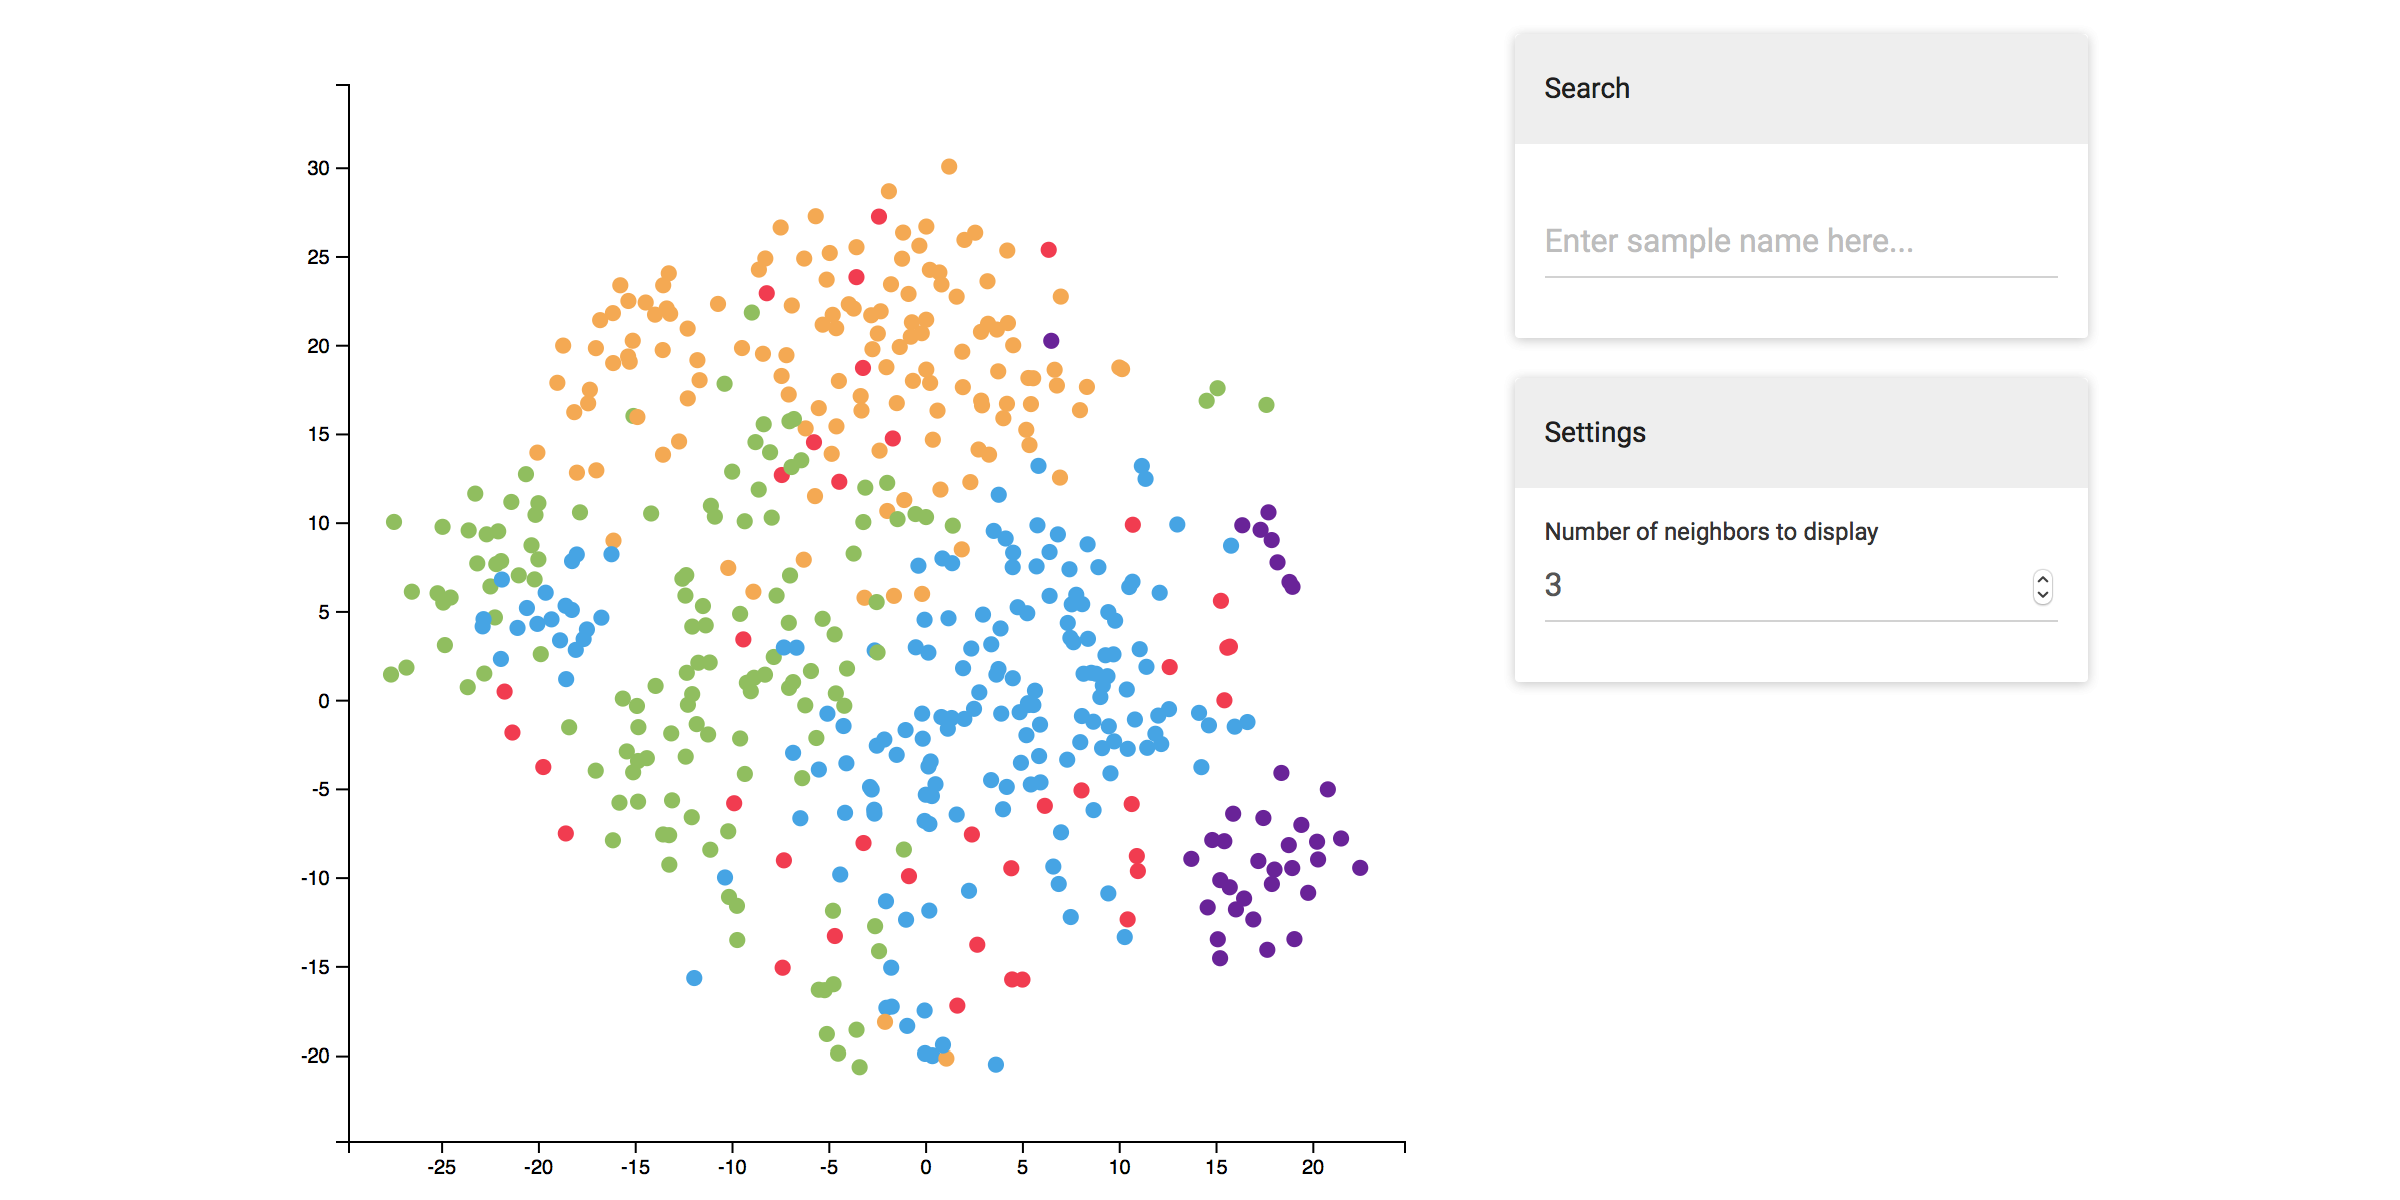
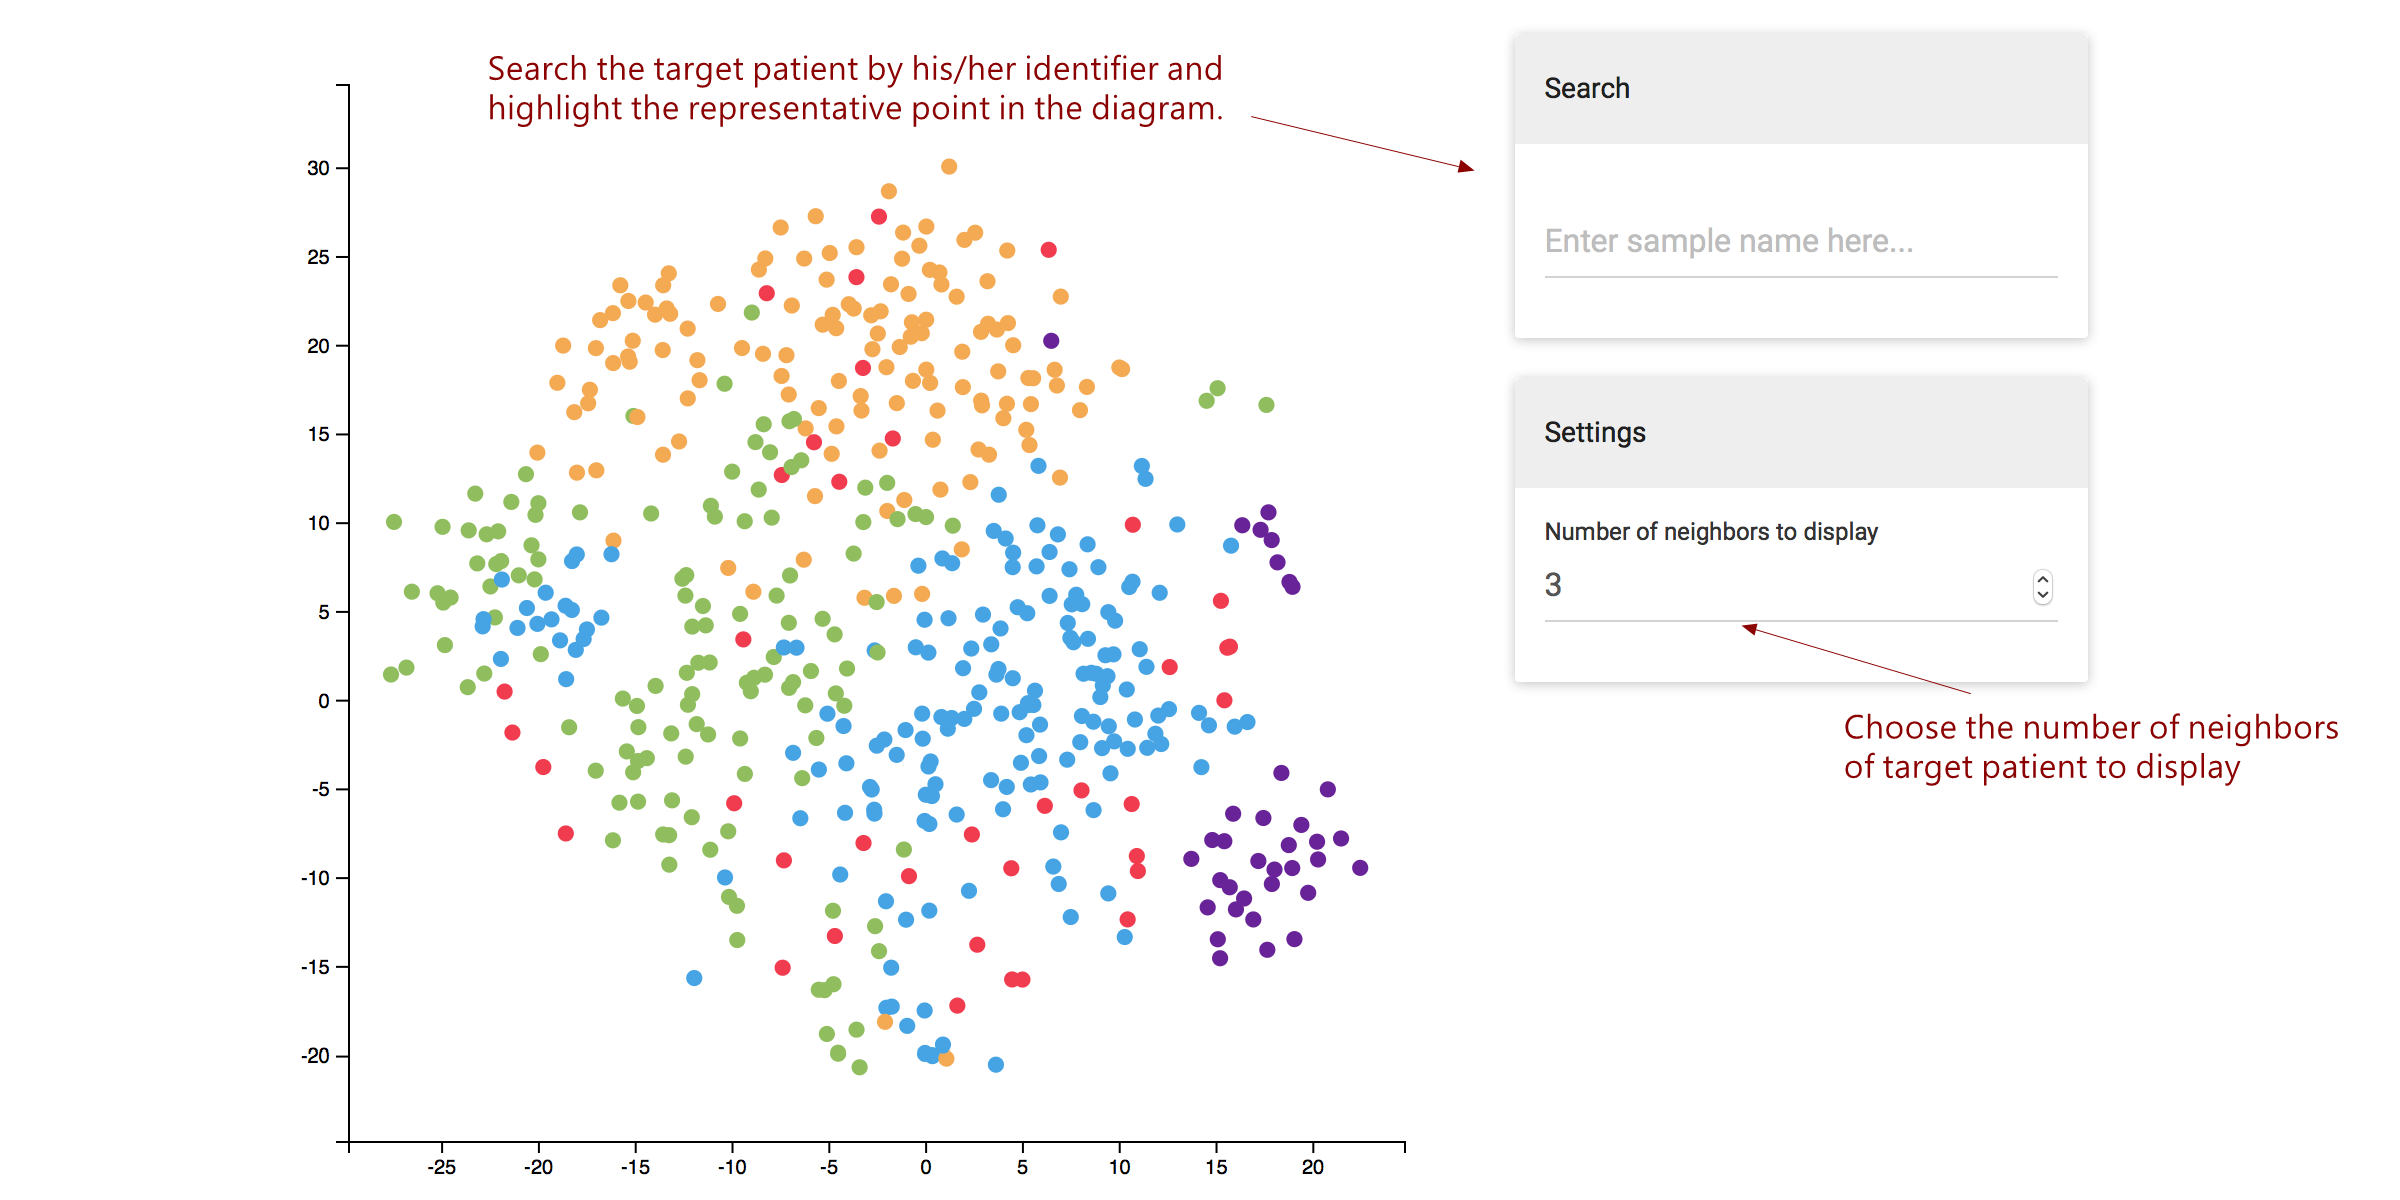
add illustrations on the tutorial page

Changed region(s): [[0.1875, 0.0308, 0.5, 0.1233], [0.7812, 0.5858, 0.9688, 0.6475]]

diff --git a/templates/default/tutorial.html b/templates/default/tutorial.html
@@ -22,7 +22,7 @@
                     </a>
                     <span class="caption">Figure 1. Select existing dataset</span>
                 </p>
-                <div class="markdown">{{ _('[TODO]: Say something for choosing existing dataset.') }}</div> <!-- .markdown -->
+                <div class="markdown">{{ _('The user could input the project name with completion hint. The corresponding dataset and metaset could automatically be selected for the user\'s efficient management.') }}</div> <!-- .markdown -->
                 <p class="text-center">
                     <a href="{{ static_url('img/tutorial/Select-Dataset-Upload.png') }}" data-fancybox data-caption="Upload new dataset">
                         <img src="{{ static_url('img/tutorial/Select-Dataset-Upload.png') }}" alt="upload-new-dataset">
@@ -55,14 +55,15 @@
                     <a href="{{ static_url('img/tutorial/Visualization-Scatter-Plot.png') }}" data-fancybox data-caption="Visualization with scatter plots">
                         <img src="{{ static_url('img/tutorial/Visualization-Scatter-Plot.png') }}" alt="scatter-plot">
                     </a>
-                    <span class="caption">Figure 4. Visualization with scatter plots</span>
+                    <span class="caption">Figure 4. Visualization with scatter diagram</span>
                 </p>
                 <p class="text-center">
                     <a href="{{ static_url('img/tutorial/Visualization-Tree-Plot.png') }}" data-fancybox data-caption="Visualization with tree plots">
                         <img src="{{ static_url('img/tutorial/Visualization-Tree-Plot.png') }}" alt="tree-plot">
                     </a>
-                    <span class="caption">Figure 5. Visualization with tree plots</span>
+                    <span class="caption">Figure 5. Visualization with dendrogram</span>
                 </p>
+                <div class="markdown">{{ _('The user could manually select the clinical information of interests in the check box(shown in Figure 6).') }}</div> <!-- .markdown -->
                 <p class="text-center">
                     <a href="{{ static_url('img/tutorial/Visualization-Metaset.png') }}" data-fancybox data-caption="Metaset of nearest neighbors">
                         <img src="{{ static_url('img/tutorial/Visualization-Metaset.png') }}" alt="metaset-of-neighbors">
